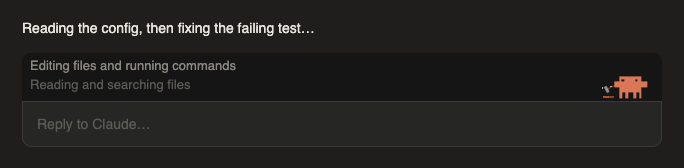
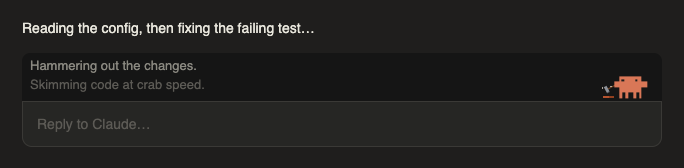
0.8.0: a caption of one-liners, ten a mood
The band caption now picks one of ten one-liners each time a mood comes up,
newest on top. The hover keeps the plain meaning. The caption also shows,
one line, beside other plugins' lines and cards. 31 tests pass.

Changed region(s): [[0.0307, 0.3571, 0.3684, 0.4464], [0.0307, 0.4762, 0.307, 0.5655]]

diff --git a/hooks/crab.ts b/hooks/crab.ts
@@ -125,3 +125,75 @@ export const MEANING: Record<Mood, string> = {
   long: 'This turn has run past 5 min',
   comp: 'Compacting the conversation',
 }
+
+const BUILD_LINES = [
+  'Hammering out the changes.', 'Building it, brick by brick.', 'Writing code with both claws.',
+  'Under construction. Hard hat on.', 'Making edits. Sawdust everywhere.', 'Typing faster than a crab can scuttle.',
+  'Running commands, claws crossed.', 'Shaping your code into place.', 'Measure twice, edit once.', 'Gears turning, files changing.',
+] as const
+
+/** The band caption: ten one-liners a mood, one picked at random each time the mood comes up (Praj, 12 Oct:
+ *  "more fun to read, keeps the user on screen"). The hover label keeps the plain MEANING. No "or". */
+export const LINES: Record<Mood, readonly string[]> = {
+  idle: ['Waiting for your next idea.', 'Claws ready. Your move.', 'Just crabbing around until you type.', 'Sand between my toes, eyes on the prompt.',
+    'Ready when you are.', 'Polishing my shell while I wait.', 'Say the word and I scuttle.', 'Listening to the waves. And your keys.',
+    'Nothing to do. Living the crab life.', 'All quiet on the shoreline.'],
+  think: ['Thinking it through, sideways.', 'Hmm. Clicking claws in thought.', 'Connecting the dots…', 'Weighing it up, claw by claw.',
+    'Brain in motion, legs at rest.', 'Plotting the next move.', 'Deep in thought. Do not poke the crab.', 'Considering every angle. Crabs have many.',
+    'Cooking up a plan.', 'One sec, an idea is surfacing.'],
+  read: ['Reading your files so you don\'t have to.', 'Skimming code at crab speed.', 'Nose in the source.', 'Digging through files like sand.',
+    'Hunting for the right line.', 'Reading the fine print.', 'Searching every nook and cranny.', 'Taking notes with a claw.',
+    'Getting to know your codebase.', 'Turning pages, turning over rocks.'],
+  build: BUILD_LINES, saw: BUILD_LINES, type: BUILD_LINES, paint: BUILD_LINES, gear: BUILD_LINES,
+  test: ['Running the tests. Claws crossed.', 'Moment of truth: tests running.', 'Putting the code through its paces.', 'Checking the work before you do.',
+    'Tests running. Holding my breath.', 'Poking the code to see if it squeaks.', 'Let\'s see what breaks.', 'Science time: running the experiment.',
+    'Testing, testing, one two three.', 'Waiting on the verdict.'],
+  testp: ['All green. Happy crab.', 'Tests pass! Claws in the air.', 'Green across the board.', 'Nailed it. Every test passes.',
+    'Passing with flying colours.', 'The tests approve.', 'Clean run. Not a single failure.', 'Gold star for this code.',
+    'Everything checks out.', 'Tests pass. Doing a little dance.'],
+  testf: ['A test failed. On it.', 'Red light. Something broke.', 'Not quite. A test said no.', 'Failure found. Better now than later.',
+    'A test caught something.', 'Back to the drawing board, briefly.', 'Red results. Rolling up my sleeves.', 'That didn\'t pass. Investigating.',
+    'The tests found a bug. Good tests.', 'Close, but no seaweed.'],
+  debug: ['That command failed. Fixing it.', 'Oops. Error spotted, fix incoming.', 'Something went sideways. Crab-style.', 'Hit a snag. Untangling it.',
+    'Error message received. Reading it.', 'A bump in the road.', 'Bug-hunting season is open.', 'Not what we expected. Adjusting.',
+    'Wrench out. Fixing the error.', 'Every error is a clue.'],
+  dizzy: ['Three fails in a row. Seeing stars.', 'Head spinning, still trying.', 'Tough one. Not giving up.', 'Round and round we go.',
+    'Third time was not the charm.', 'Dizzy, but determined.', 'This bug is putting up a fight.', 'Shaking it off. Trying again.',
+    'Stubborn bug, more stubborn crab.', 'Regrouping after a rough patch.'],
+  fixed: ['Fixed! Tests pass again.', 'Back in the green.', 'Bug squashed.', 'From red to green. Victory.',
+    'Comeback complete.', 'Problem solved. Confetti time.', 'That bug never stood a chance.', 'Broken, then fixed. Classic.',
+    'Tests are happy again.', 'Redemption arc complete.'],
+  done: ['Done! Your turn.', 'All finished. Take a look.', 'Wrapped up. Ready for review.', 'Mission complete.',
+    'That\'s a wrap.', 'Job done. Taking a bow.', 'Finished. What\'s next?', 'Done and dusted.',
+    'Ta-da!', 'Over to you, captain.'],
+  doze: ['Zzz… wake me with a message.', 'Napping. Type to wake me.', 'Dreaming of clean code.', 'Ten quiet minutes. Crab nap.',
+    'Resting my claws.', 'Counting sheep, then crabs.', 'Asleep, but still here.', 'Snoozing on the sand.',
+    'Shh. The crab is sleeping.', 'Recharging. Say hi anytime.'],
+  night: ['Up late? Me too.', 'Night owl mode: on.', 'Burning the midnight oil.', 'The moon is out. So are we.',
+    'Late-night coding crew.', 'Stars out, code in.', 'Quiet hours, good focus.', 'Midnight snack: a few more lines.',
+    'The best bugs come out at night.', 'Remember to sleep sometime.'],
+  web: ['Searching the web for answers.', 'Surfing the internet.', 'Asking the internet.', 'Out on the web, fetching facts.',
+    'Checking the docs online.', 'Casting a net on the web.', 'Browsing so you don\'t have to.', 'Looking it up.',
+    'Catching a wave of results.', 'Reading the web, page by page.'],
+  sub: ['Sent a helper crab on an errand.', 'A subagent is on it.', 'Delegating to a tiny crab.', 'Teamwork: a helper is working.',
+    'Mini crab dispatched.', 'Many claws make light work.', 'A helper is digging in.', 'Crab squad assembled.',
+    'Splitting the work with a helper.', 'Waiting on the helper\'s report.'],
+  codex: ['Another model is working.', 'Calling in a second opinion.', 'Phoning a friend.', 'Handing off to another model.',
+    'Two brains on this one.', 'A colleague model is typing.', 'Outsourcing the heavy lifting.', 'Another model has the ball.',
+    'Waiting on the other model.', 'Collaborating across models.'],
+  git: ['Committing your changes.', 'Shipping it with git.', 'Saving progress to history.', 'Stamped and committed.',
+    'Pushing to the remote.', 'Into the history books.', 'Git it done.', 'Launching your commits.',
+    'Another dot on the commit graph.', 'Changes saved for posterity.'],
+  inst: ['Installing a package.', 'Unboxing a new tool.', 'Delivery arriving.', 'Adding a dependency.',
+    'Fetching packages.', 'New tools for the toolbox.', 'Download in progress.', 'Setting things up.',
+    'Package incoming.', 'Stocking up on supplies.'],
+  ask: ['Waiting for your reply.', 'Your input needed.', 'Quick question for you.', 'Over to you for a decision.',
+    'Need a hand here.', 'Tapping a claw, awaiting your answer.', 'Your call.', 'Help me choose.',
+    'A question awaits you.', 'Paused until you answer.'],
+  long: ['Long task. Coffee break for the crab.', 'Still going. Big job.', 'A marathon, not a sprint.', 'This one takes a while.',
+    'Hang tight, still working.', 'Deep in the weeds.', 'Time flies when you\'re coding.', 'Persistence pays off.',
+    'Worth the wait. Probably.', 'Still at it. Sweating a little.'],
+  comp: ['Compacting the conversation.', 'Squeezing the chat to fit.', 'Packing light for the road ahead.', 'Summarizing what we\'ve done.',
+    'Making room for more.', 'Tidying up the context.', 'Folding the memories neatly.', 'Shrinking the transcript.',
+    'Condensing, not forgetting.', 'Spring cleaning the context.'],
+}

diff --git a/hooks/register.tsx b/hooks/register.tsx
@@ -1,7 +1,7 @@
 import { atom, read, update } from 'claude-code'
 import type { Register } from 'claude-code'
 import type { Crab, Mood } from '../types'
-import { classify, step, shown, take, setLine, START, MEANING } from './crab.ts'
+import { classify, step, shown, take, setLine, START, MEANING, LINES } from './crab.ts'
 import type { CrabEvent } from './crab.ts'
 import { crabArt } from './art.ts'
 import { COLS, ROWS } from './term.tsx'
@@ -31,7 +31,9 @@ async function show($: any, c: Crab, now: number) {
     return
   }
   const t = take(c, now, m)
-  await update($, look, x => ({ mood: m, take: t, at: now, log: [MEANING[m], ...x.log.filter(l => l !== MEANING[m])].slice(0, 2) }))
+  // A one-liner picked by the millisecond the mood came up; the caption scrolls down one line.
+  const line = LINES[m][now % LINES[m].length]
+  await update($, look, x => ({ mood: m, take: t, at: now, log: [line, ...x.log.filter(l => l !== line)].slice(0, 2) }))
 }
 
 // eslint-disable-next-line @typescript-eslint/no-explicit-any
@@ -123,8 +125,8 @@ export const register: Register = on => {
     const rest = await next(e)
     if (e.props.hasSurvey) return rest
     const { mood: m, take: t, log: seen } = await read($, look)
-    // The caption log, newest on top; before the first change, the crab's own mood.
-    const log = seen.length ? seen : [MEANING[m]]
+    // The caption log, newest on top; before the first change, the mood's first line.
+    const log = seen.length ? seen : [LINES[m][0]]
     // Footer-owned lines never draw here, even one a 0.2.0 session left in the atom.
     const ls = Object.entries(await read($, lines)).filter(([who]) => !FOOTER.has(who))
     const { Box, Svg, Text, Client } = $.ui.resolve(e) as ReturnType<typeof $.ui.resolve> & { Svg: never; Client: never }
@@ -174,7 +176,8 @@ export const register: Register = on => {
             {row}
             {info && rest}
             {/* Crab alone in the band: its caption fills the left, so the bar is never an empty strip (Praj, 12 Oct). */}
-            {!info && log.map((l, i) => <Text key={l} color={i === 0 ? 'inactive' : 'subtle'} wrap="truncate-end">{l}</Text>)}
+            {/* Two lines when the crab is alone, the newest only beside other lines and cards (Praj, 12 Oct). */}
+            {(info ? log.slice(0, 1) : log).map((l, i) => <Text key={l} color={i === 0 ? 'inactive' : 'subtle'} wrap="truncate-end">{l}</Text>)}
           </Box>
           <Box key="crab-buddy" flexShrink={0}>
             <Svg source={crabArt(m, t)} alt={`Claude crab: ${m}`} width={52} height={41} />

diff --git a/crab-buddy.test.ts b/crab-buddy.test.ts
@@ -1,4 +1,5 @@
 import { test, expect, mock } from 'claude-code/testing'
+import { LINES } from './hooks/crab.ts'
 
 test('the crab perches above the prompt and follows the turn: reading, a failed command, done', async ($, on) => {
   const clock = mock.clock(on, { now: new Date(2026, 9, 11, 14, 0).getTime() })
@@ -127,16 +128,18 @@ test('idle moves on to its next take after 30 s, still idle (Praj, 12 Oct)', asy
   expect(a?.source).not.toBe(b?.source)
 })
 
-test('crab alone in the band: its caption fills the left, dim; any other line or card takes that room (Praj, 12 Oct)', async ($, on) => {
+test('the caption: two one-liners when the crab is alone, one beside other lines and cards (Praj, 12 Oct)', async ($, on) => {
   let card = false
   on('ui.render', ($$, e) => { const { Box, Text } = $$.ui.resolve(e as never) as never as { Box: never; Text: never }; return (card ? h(Box, {}, h(Text, {}, 'card')) : h(Box, {})) as never })
   const props = { hasSurvey: false, isWorking: false, maxRows: 12, bodyColumns: 80 } as never
   const mount = () => $.ui.mount({ plugin: 'crab-buddy', surface: 'desktop', component: 'AbovePrompt', props })
   const left = async () => kids(await (await mount()).find({ key: 'crab-text' }) as never as El)
   const [cap] = await left()
-  expect([cap?.props?.color, cap?.children]).toEqual(['inactive', ['Idle: waiting for your message']])
+  // Before anything happens: idle's first line.
+  expect([cap?.props?.color, cap?.children]).toEqual(['inactive', ['Waiting for your next idea.']])
   card = true
-  expect(JSON.stringify(await left())).not.toContain('Idle: waiting')
+  const withCard = await left()
+  expect(JSON.stringify(withCard.at(-1))).toContain('Waiting for your next idea.')
 })
 
 test('light theme: no dark paint, the band keeps the app own colour; dark keeps #151515', async ($, on) => {
@@ -179,8 +182,7 @@ test('no flashing: a look holds 3 s, repeats keep their take, and the caption sc
   await clock.advance(3_000)
   const c = await band()
   expect(c.svg?.alt).toBe('Claude crab: build')
-  expect(c.text.map(t => [t.props?.color, t.children])).toEqual([
-    ['inactive', ['Editing files and running commands']],
-    ['subtle', ['Reading and searching files']],
-  ])
+  // A one-liner from each job, newest on top; the plain meaning stays on the hover label.
+  const [top, below] = c.text.map(t => [t.props?.color, (t.children as string[])[0]])
+  expect([top[0], LINES.build.includes(top[1] as string), below[0], LINES.read.includes(below[1] as string)]).toEqual(['inactive', true, 'subtle', true])
 })

diff --git a/crab.test.ts b/crab.test.ts
@@ -164,3 +164,17 @@ test('the art is well-formed XML: no stray < inside the style, which the SVG par
     expect(css).not.toContain('<')
   }
 })
+
+import { LINES, BUILDS } from './hooks/crab.ts'
+test('the band caption: ten one-liners a mood, all different, short, said with certainty (Praj, 12 Oct)', () => {
+  for (const m of [...ONE, ...BUILDS]) {
+    const l = LINES[m]
+    expect([m, l.length, new Set(l).size]).toEqual([m, 10, 10])
+    for (const s of l) {
+      expect(s.length <= 46 ? s : `${m}: too long: ${s}`).toBe(s)
+      expect(/\bor\b/i.test(s) ? `${m}: says "or": ${s}` : s).toBe(s)
+    }
+  }
+  // The five building scenes are one job, so they share one set.
+  expect(LINES.saw).toBe(LINES.build)
+})

diff --git a/README.md b/README.md
@@ -1,6 +1,6 @@
 <picture>
   <source media="(prefers-color-scheme: dark)" srcset="docs/band-dark.png">
-  <img alt="Crab Buddy: the orange Claude crab sits at the bottom right, just above the prompt box, holding a hammer. Beside it, a two-line caption reads 'Editing files and running commands', with 'Reading and searching files' dimmer below." src="docs/band-light.png">
+  <img alt="Crab Buddy: the orange Claude crab sits at the bottom right, just above the prompt box, holding a hammer. Beside it, a two-line caption reads 'Hammering out the changes.', with 'Skimming code at crab speed.' dimmer below." src="docs/band-light.png">
 </picture>
 
 # Crab Buddy: an animated crab for Claude Code
@@ -16,8 +16,9 @@ It runs entirely on Claude Code's plugin hooks: no model calls, **0 tokens**.
   rarely look the same.
 - **Nothing flashes.** Each look stays at least 3 seconds, then the crab jumps to whatever is
   happening now.
-- **A caption, when the crab is alone.** Two lines scroll down like a terminal, newest on top:
-  what Claude is doing now and what it did just before.
+- **A caption with personality.** Ten one-liners a mood ("Skimming code at crab speed.",
+  "Close, but no seaweed.") scroll down like a terminal, newest on top. Pointing at the crab
+  still gives the plain meaning.
 - **Desktop and terminal.** The desktop app gets smooth CSS animation; a terminal gets Claude
   Code's own welcome-screen crab in block characters.
 - **Light and dark themes.**

diff --git a/CONTEXT.md b/CONTEXT.md
@@ -34,7 +34,8 @@ Claude crab above the prompt and acts out what the session is doing. No model ca
 - 2026-10-12: Shipped alone. The maintainer's other mods depend on their own setup.
 - 2026-10-12: Each look holds at least 3 s (no flashing); done and test results last 5 s so
   the hold can never swallow them. A repeat of the same mood keeps its take.
-- 2026-10-12: Alone in the band, a two-line caption log (newest on top) fills the left.
+- 2026-10-12: The caption is a log of one-liners (`LINES`, ten a mood, no "or"), newest on top:
+  two lines when the crab is alone, one beside other lines and cards. The hover keeps `MEANING`.
 - 2026-10-12: Light theme: no dark paint; the theme is read at session start only.
 - 2026-10-12: Night owl uses the host's local hour.
 - 2026-10-11: Every other plugin's status line is drawn in the band, not the footer;
@@ -46,5 +47,5 @@ Claude crab above the prompt and acts out what the session is doing. No model ca
 
 ## Current state
 
-2026-10-12: v0.7.0. 30 tests pass. Live in the maintainer's desktop app: 0.5.0 motion confirmed;
-0.6.0 takes and 0.7.0 hold/caption/theme not yet seen live. Light theme never seen live.
+2026-10-12: v0.8.0. 31 tests pass. Live in the maintainer's desktop app: 0.5.0 motion confirmed;
+0.6.0 takes and 0.7.0/0.8.0 hold, caption and theme not yet seen live. Light theme never seen live.
